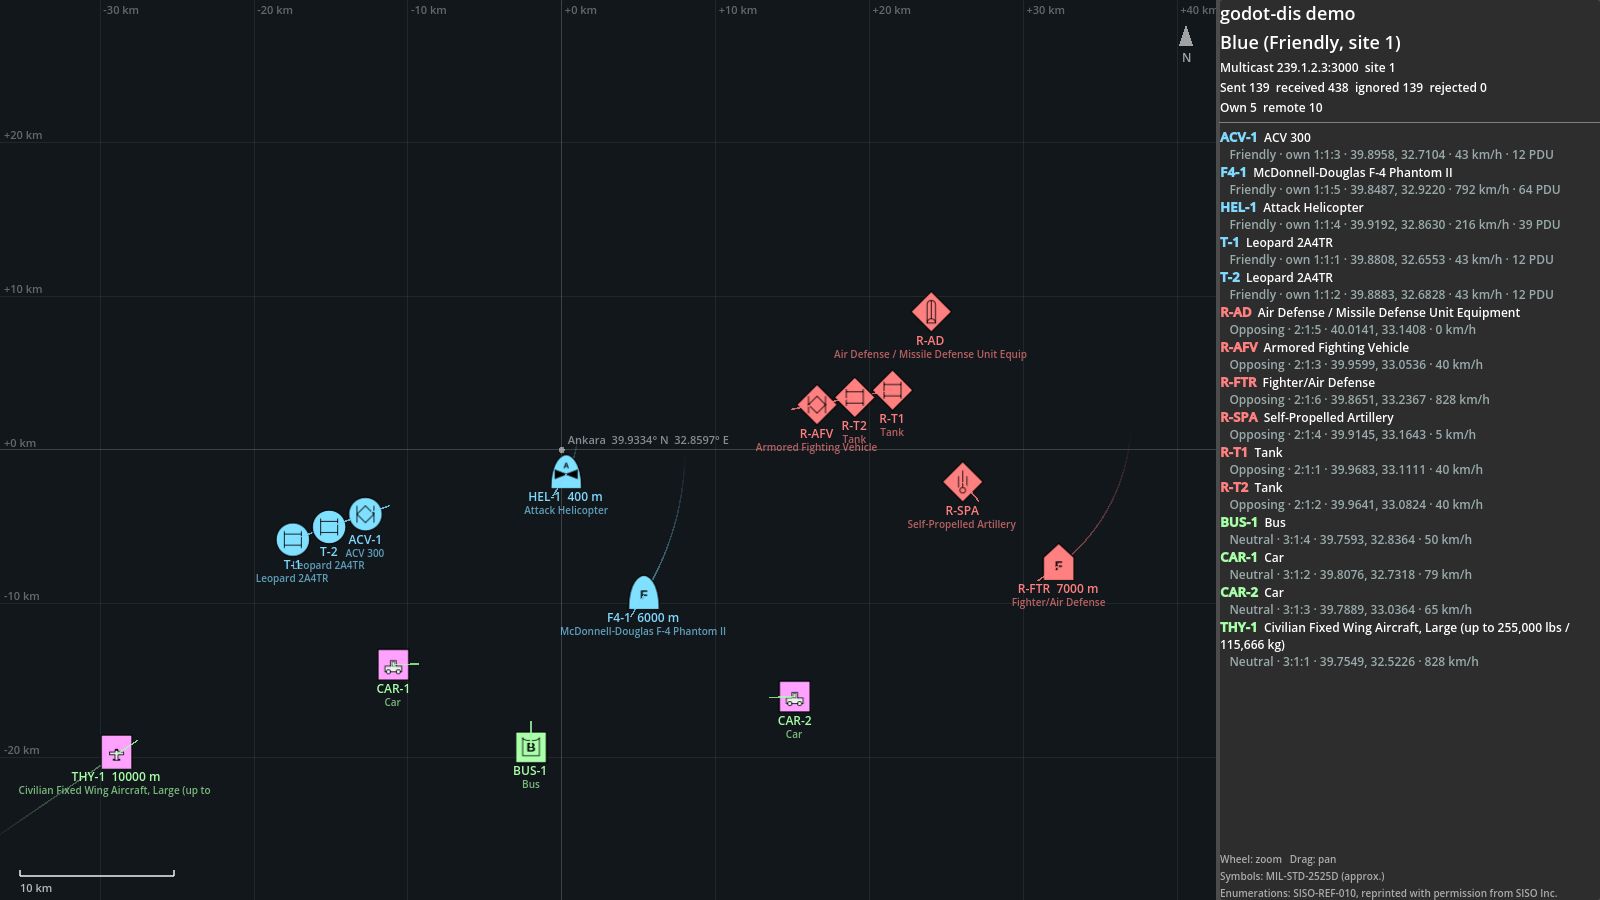
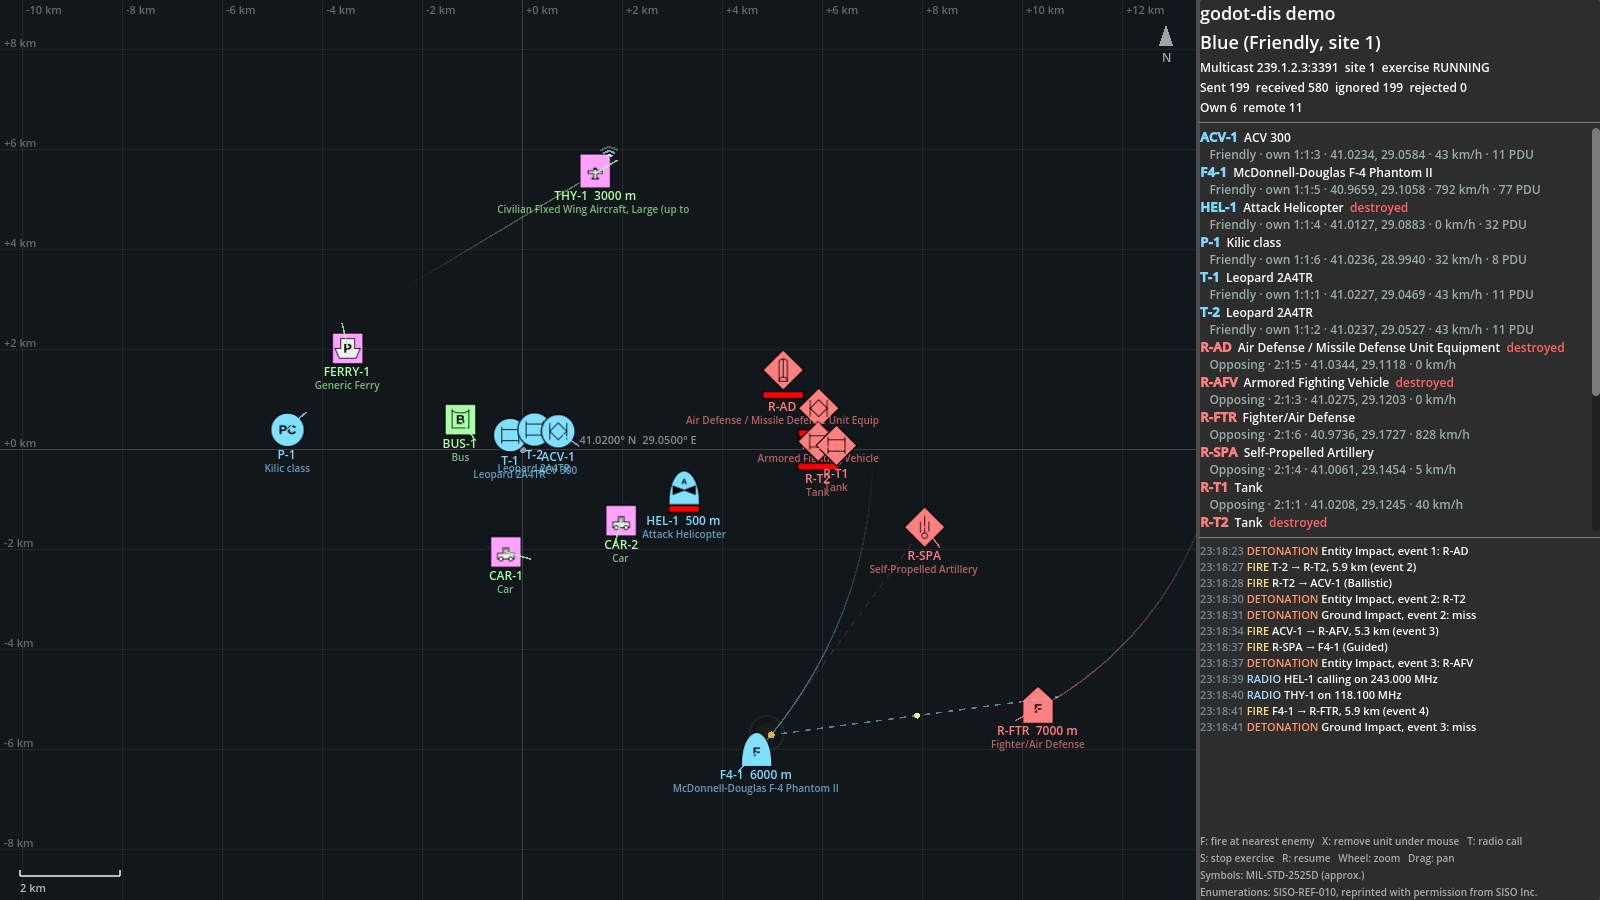
Move the demo scenario from Ankara to Üsküdar, Istanbul
Origin 41.0200 N, 29.0500 E, ellipsoid height 0, the same as the godot-geo
Üsküdar terrain packages. Land routes follow main roads of the Asian side
(OpenStreetMap via the godot-geo package), a blue patrol craft and a civilian
ferry run on the Bosphorus, the airliner flies at 3 km. DemoUnitMover gains
`surface` and `racetrack()`. Media regenerated.

diff --git a/tools/demo_traffic.py b/tools/demo_traffic.py
@@ -3,11 +3,11 @@
 Usage: tools/.venv/Scripts/python.exe tools/demo_traffic.py [--group 239.1.2.3] [--port 3000] [--seconds 0]
        [--start 0] [--rate 1]
 
-Sends Entity State PDUs (site 3, force Neutral) for an airliner and some road traffic around the demo origin
-(Ankara) once per second with dead reckoning algorithm 4 (RVW: velocity, acceleration and turn rate), so the
-Godot demos move them smoothly in between, also through turns.
+Sends Entity State PDUs (site 3, force Neutral) for an airliner, some road traffic and a Bosphorus ferry (Üsküdar -
+Beşiktaş) around the demo origin (Üsküdar, Istanbul) once per second with dead reckoning algorithm 4 (RVW:
+velocity, acceleration and turn rate), so the Godot demos move them smoothly in between, also through turns.
 --seconds 0 runs until Ctrl+C. --start skips ahead along the routes (seconds of scenario time; the airliner reaches
-its first turn after ~400 s); --rate sends that many updates per second.
+its first turn after ~310 s); --rate sends that many updates per second.
 
 It is also a managed application: Stop/Freeze and Start/Resume addressed to site 3 (or everyone) freeze and resume
 the traffic, a Remove Entity request removes that vehicle, and every request is answered with an Acknowledge PDU,
@@ -27,7 +27,7 @@ from opendis.RangeCoordinates import GPS
 from opendis.dis7 import AcknowledgePdu, EntityStatePdu, EntityType, SignalPdu, TransmitterPdu, WorldCoordinates
 from opendis.stream import DataOutputStream
 
-ORIGIN = (39.9334, 32.8597, 938.0)  # same as demo/main.tscn
+ORIGIN = (41.02, 29.05, 0.0)  # Üsküdar, Istanbul; same as demo/main.tscn
 SITE, APPLICATION, FORCE_NEUTRAL = 3, 1, 3
 ALL = 0xFFFF
 DEACTIVATED = 1 << 23  # general appearance "State" bit
@@ -54,12 +54,29 @@ def racetrack(a, b, radius, points_per_turn=24):
     return route[-1:] + route[:-1]  # start at a, heading for b
 
 
+# Main roads of the Asian side (© OpenStreetMap contributors, ODbL; via the godot-geo terrain package), demo map
+# metres: a car loop Altunizade - Acıbadem - Kadıköy (Hasanpaşa) - Çamlıca, a bus loop Üsküdar - Altunizade.
+CAR_ROUTE = [
+    (480, 580), (-60, 1380), (-270, 1510), (-530, 1860), (-780, 2060), (-1010, 1920), (-760, 1920), (110, 2170),
+    (400, 2300), (450, 2460), (560, 2520), (640, 2500), (700, 2430), (750, 2380), (840, 2470), (1760, 2920),
+    (1960, 2870), (2020, 2590), (1870, 1940), (1880, 1710), (2100, 930), (2130, 520), (1630, 40), (1250, -120),
+    (1180, -90), (1090, 40), (820, 180),
+]
+BUS_ROUTE = [
+    (-2890, -640), (-2830, -640), (-2700, -560), (-2640, -570), (-2320, -690), (-1990, -870), (-1790, -890),
+    (-1480, -820), (-1310, -690), (-1130, -440), (-1140, -360), (-1100, -400), (-730, -390), (-500, -340),
+    (-400, -280), (-890, -160), (-1220, -140), (-1280, -20), (-1820, 540), (-2030, 400), (-2370, 260),
+    (-2710, -50), (-2860, -260),
+]
+SEA_SURFACE = 36.3  # m above the origin (ellipsoid): EGM2008 geoid height there less Earth curvature at ~3 km
+
 # marking, entity type, route in demo map metres (x east, z south), speed m/s, height above origin m
 UNITS = [
-    ("THY-1", (1, 2, 0, 87, 0, 0, 0), racetrack((-38000, 26000), (38000, -26000), 6000), 230.0, 10000.0),
-    ("CAR-1", (1, 1, 0, 81, 0, 0, 0), [(-12000, 14000), (16000, 13000), (16000, 16000), (-12000, 17000)], 22.0, 0.0),
-    ("CAR-2", (1, 1, 0, 81, 0, 0, 0), [(16000, 16000), (-12000, 17000), (-12000, 14000), (16000, 13000)], 18.0, 0.0),
-    ("BUS-1", (1, 1, 0, 82, 0, 0, 0), racetrack((-2000, 20000), (-2000, 9000), 60, 8), 14.0, 0.0),
+    ("THY-1", (1, 2, 0, 87, 0, 0, 0), racetrack((-20000, 12000), (20000, -12000), 4000), 150.0, 3000.0),
+    ("CAR-1", (1, 1, 0, 81, 0, 0, 0), CAR_ROUTE, 16.0, 0.0),
+    ("CAR-2", (1, 1, 0, 81, 0, 0, 0), CAR_ROUTE[::-1], 14.0, 0.0),
+    ("BUS-1", (1, 1, 0, 82, 0, 0, 0), BUS_ROUTE, 10.0, 0.0),
+    ("FERRY-1", (1, 3, 0, 80, 4, 0, 0), racetrack((-3150, -800), (-3450, -2150), 80, 4), 7.0, SEA_SURFACE),
 ]
 
 

diff --git a/docs/demo.md b/docs/demo.md
@@ -1,4 +1,4 @@
-# Demo: a two-sided exercise around Ankara
+# Demo: a two-sided exercise around Üsküdar, Istanbul
 
 ![Blue side's view: own units, the red side's units and civilian traffic from Open-DIS Python](images/demo_blue.png)
 
@@ -7,9 +7,15 @@ script, and every copy shows all units on a tactical map:
 
 | Who | Site | Force | Units |
 |---|---|---|---|
-| Godot `--side blue` | 1 | Friendly | 2 × Leopard 2A4TR, ACV 300, attack helicopter, F-4 (Türkiye, SISO-REF-010 country 218) |
+| Godot `--side blue` | 1 | Friendly | 2 × Leopard 2A4TR, ACV 300, attack helicopter, F-4, patrol craft in the Bosphorus (Türkiye, SISO-REF-010 country 218) |
 | Godot `--side red` | 2 | Opposing | 2 tanks, AFV, self-propelled artillery, air defense, fighter (generic types) |
-| `tools/demo_traffic.py` (Open-DIS Python) | 3 | Neutral | airliner at 10 km on a racetrack, two cars, a bus |
+| `tools/demo_traffic.py` (Open-DIS Python) | 3 | Neutral | airliner at 3 km on a racetrack, two cars, a bus, an Üsküdar – Beşiktaş ferry |
+
+The origin (`DisGeoOrigin`) is 41.0200° N, 29.0500° E, ellipsoid height 0 — the same as the godot-geo Üsküdar
+terrain packages, so the godot-geo 3D demo can join the exercise. Blue moves between Altunizade, Çamlıca and
+Acıbadem, red east of the O-2 (TEM) motorway, the civilian traffic between Üsküdar, Altunizade and Kadıköy, and two
+boats on the Bosphorus. The units are fictitious and kept away from real military sites. Land routes follow main
+roads (© OpenStreetMap contributors, ODbL, taken from the godot-geo terrain package); there is no map background.
 
 Each copy publishes its own units with `DisEntity` (dead reckoning thresholds, heartbeat) and shows everyone's with
 `DisEntityManager`: names from `DisEnums`, MIL-STD-2525D symbols from godot-milsymbol. Everything goes over
@@ -71,7 +77,7 @@ Each prints what it received by PDU type; then `& $godot --path . res://demo/rep
 replays the blue side's recording.
 
 `tools/demo_traffic.py` options: `--start S` (skip S seconds ahead along the routes; the airliner reaches its first
-turn after ~400 s), `--rate HZ` (updates per second, default 1), `--port N`, `--seconds N`. It sends dead reckoning
+turn after ~310 s), `--rate HZ` (updates per second, default 1), `--port N`, `--seconds N`. It sends dead reckoning
 algorithm 4 (RVW) with acceleration and turn rate, so receivers follow the vehicles through turns too. It also obeys
 Stop/Freeze, Start/Resume and Remove Entity addressed to site 3 and answers them with Open-DIS Acknowledge PDUs,
 and the airliner's radio talks on 118.100 MHz for 3 s every 20 s (Transmitter and Signal PDUs).

diff --git a/CHANGELOG.md b/CHANGELOG.md
@@ -13,7 +13,7 @@ All notable changes to this project are documented here. Versions follow [semver
 - `DisEntityManager` ground clamping: `ground_path` (any node with `height_at(x, z)`, e.g. godot-geo `GeoTerrain`),
   `ground_clamp`, `ground_align`.
 - Warning when an entity jumps far on several updates in a row (two simulations sharing one entity ID).
-- Demo: two-sided exercise around Ankara plus civilian traffic from Open-DIS Python (`--port`; traffic `--start`,
+- Demo: two-sided exercise around Üsküdar, Istanbul plus civilian traffic from Open-DIS Python (`--port`; traffic `--start`,
   `--rate`, dead reckoning algorithm 4 with turn rate, racetrack routes); `tools/link_milsymbol.py`.
 - CI for Windows, Linux and macOS.
 - Fire, Detonation, Remove Entity, Start/Resume, Stop/Freeze and Acknowledge PDUs (`DisFirePdu`,
@@ -58,6 +58,10 @@ All notable changes to this project are documented here. Versions follow [semver
 - A PDU length field of 0 is read as the datagram size (some senders never fill it in).
 - `get_length()` counts `trailing_bytes`; the size of the known fields is `get_body_length()`.
 - Radio Communications PDUs that carry our own site / application are ignored like other own PDUs.
+- Demo scenario moved from Ankara to Üsküdar, Istanbul (origin 41.0200 N, 29.0500 E, ellipsoid height 0, the same
+  as the godot-geo Üsküdar terrain packages): land routes on main roads of the Asian side, a blue patrol craft and a
+  civilian ferry on the Bosphorus, the airliner at 3 km (first turn after ~310 s); `DemoUnitMover.surface` (stay on
+  the ground or sea surface when there is one) and `DemoUnitMover.racetrack()`.
 
 ### Fixed
 - Linux: loading godot-dis and godot-jsbsim in one project crashed (signal 11 in JSBSim's `std::regex`): the

diff --git a/docs/recording.md b/docs/recording.md
@@ -95,7 +95,7 @@ Space plays / pauses, Left / Right jump 10 s, Up / Down change the speed (0.25×
 the slider seeks. The event list shows fire, detonations and simulation management with recording time.
 Options: `--speed X`, `--seek S`, `--loop`, `--rebroadcast` (also send onto multicast 239.1.2.3:3000),
 `--seconds N --screenshot file.png`. It opens any capture, for example the Wireshark sample captures
-(`tools/fetch_captures.py`), but the map is centred on Ankara.
+(`tools/fetch_captures.py`), but the map is centred on Üsküdar (Istanbul).
 
 ## Command line
 

diff --git a/README.md b/README.md
@@ -87,7 +87,7 @@ func shoot(target: DisRemoteEntity) -> void:
 ```
 
 ## Demos
-- `demo/main.tscn`: a two-sided exercise around Ankara — two Godot copies and Open-DIS Python traffic on one
+- `demo/main.tscn`: a two-sided exercise around Üsküdar, Istanbul — two Godot copies and Open-DIS Python traffic on one
   multicast group; fire (F), remove (X), stop (S), resume (R) and radio calls (T) — [docs/demo.md](docs/demo.md)
 - `demo/replay.tscn`: replay a recording on the tactical map with timeline, speed and seek —
   [docs/recording.md](docs/recording.md)
